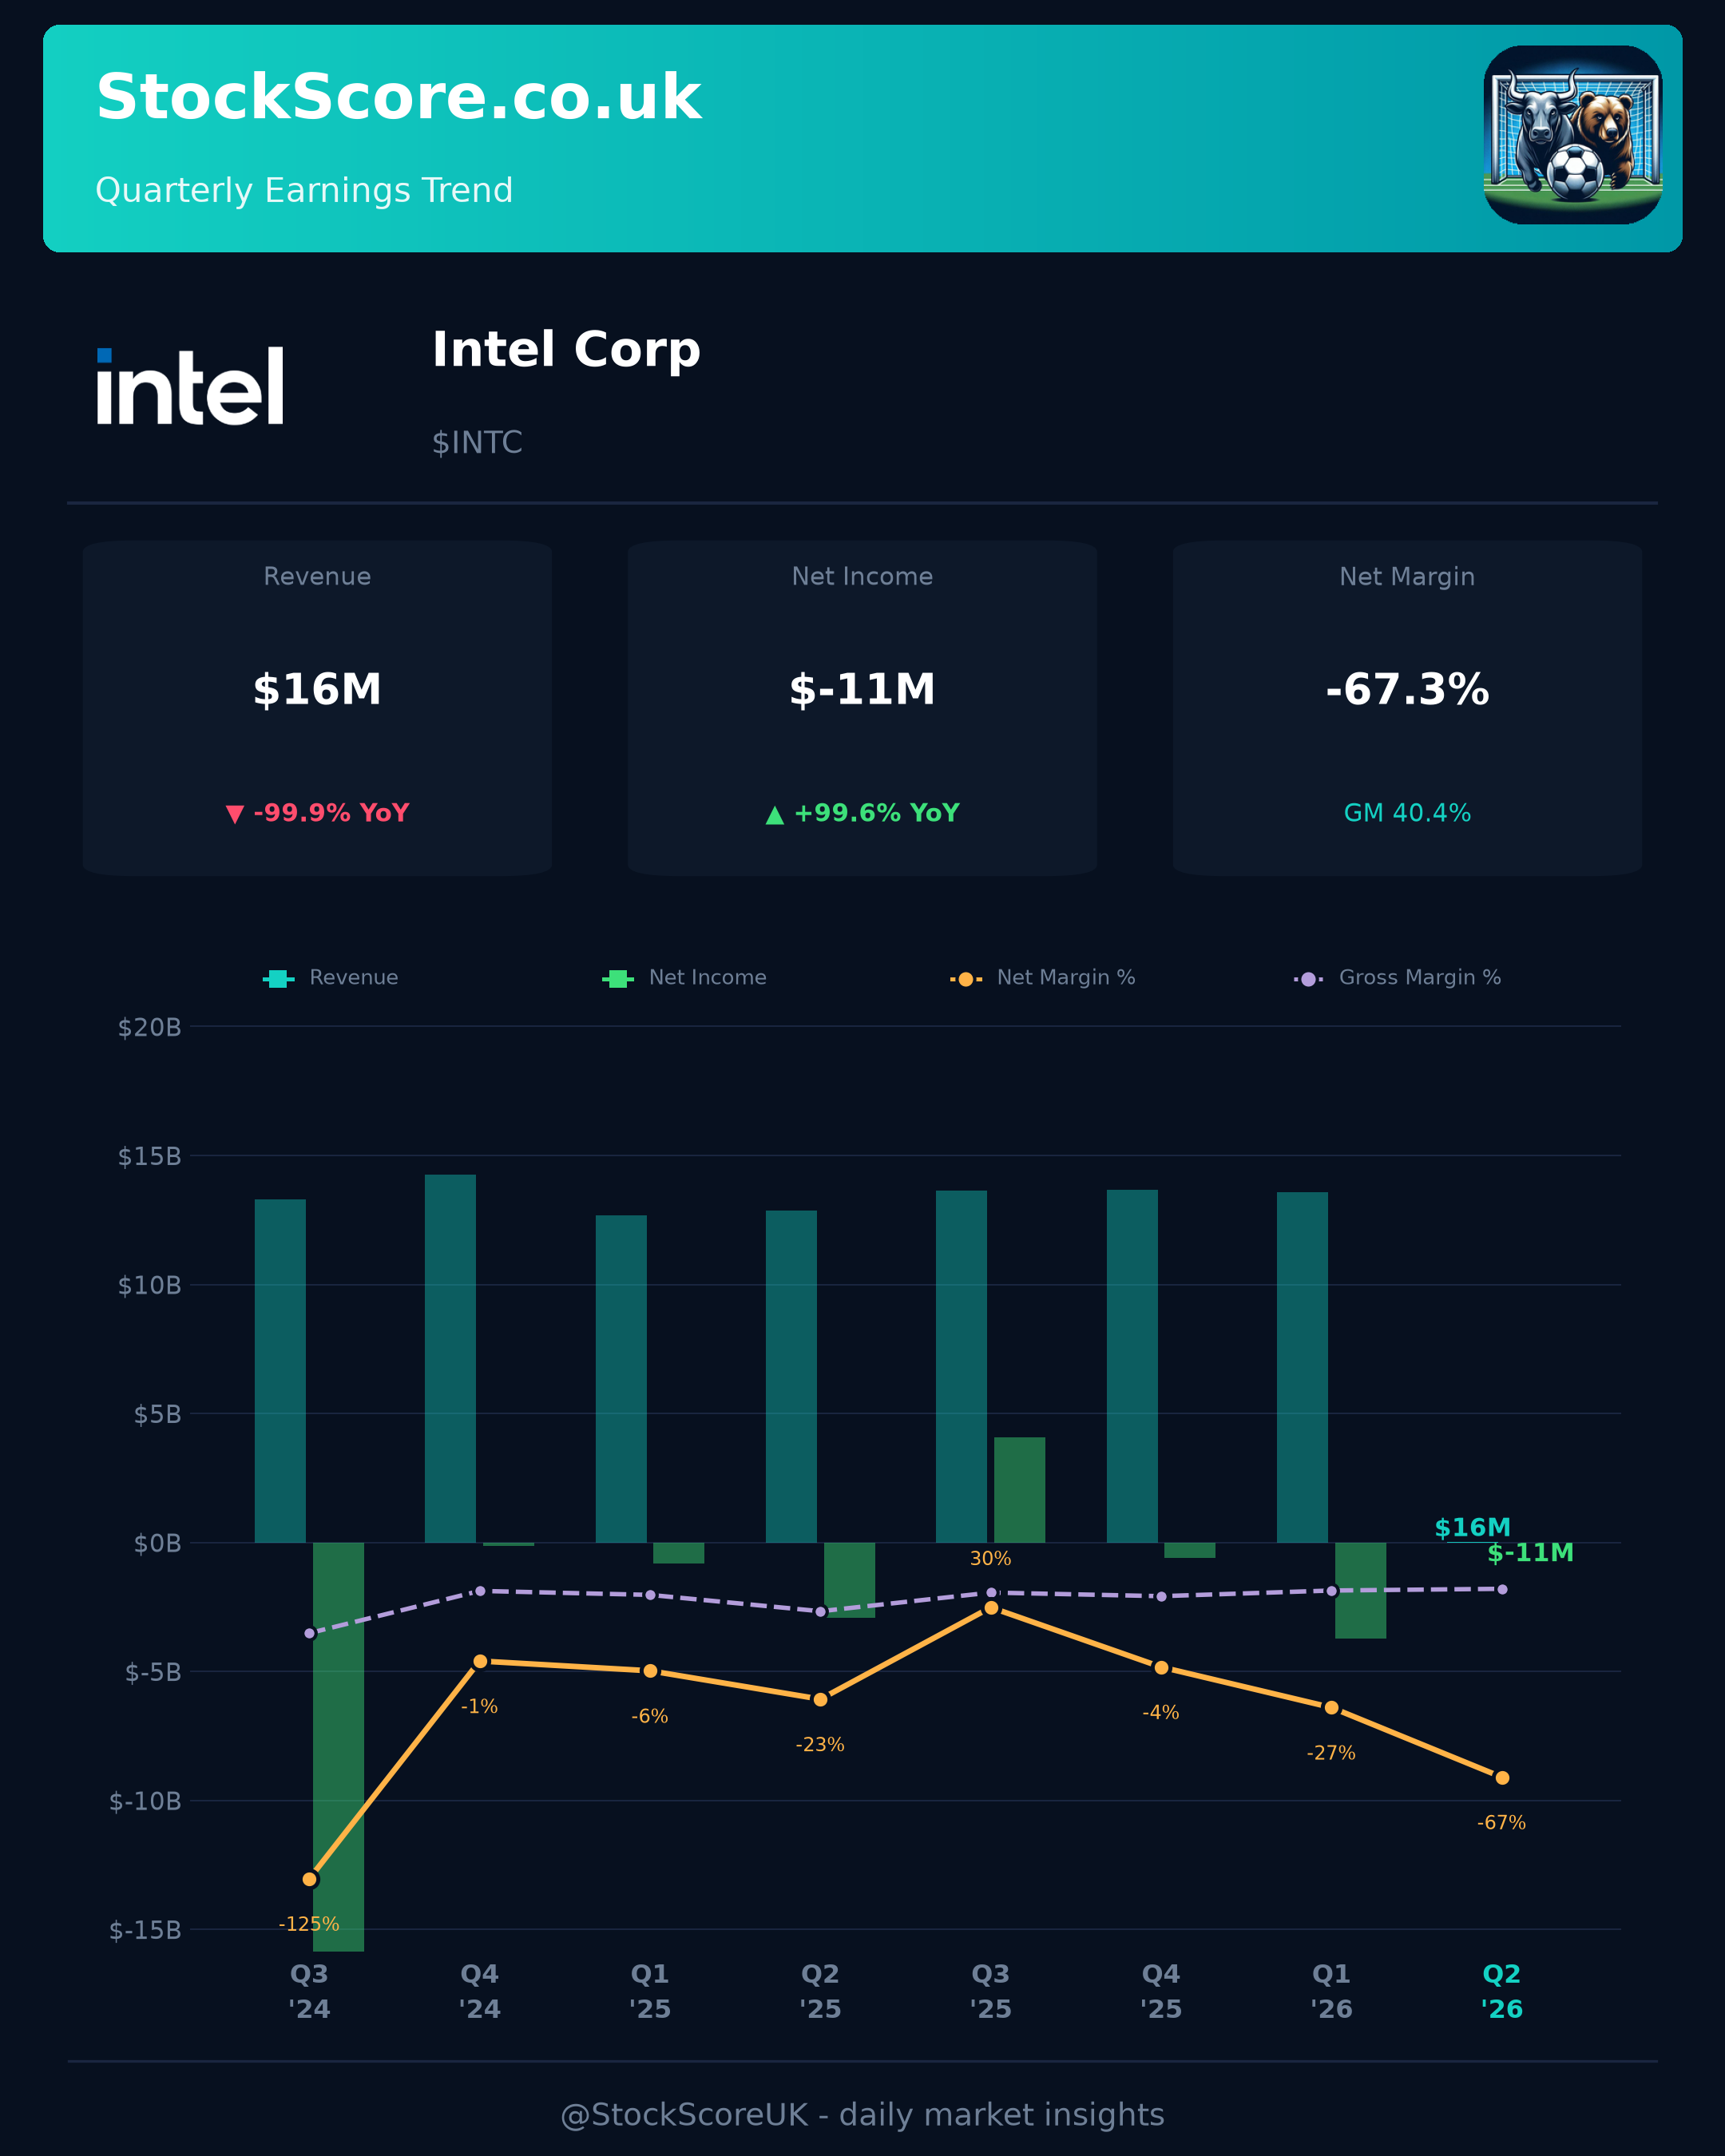
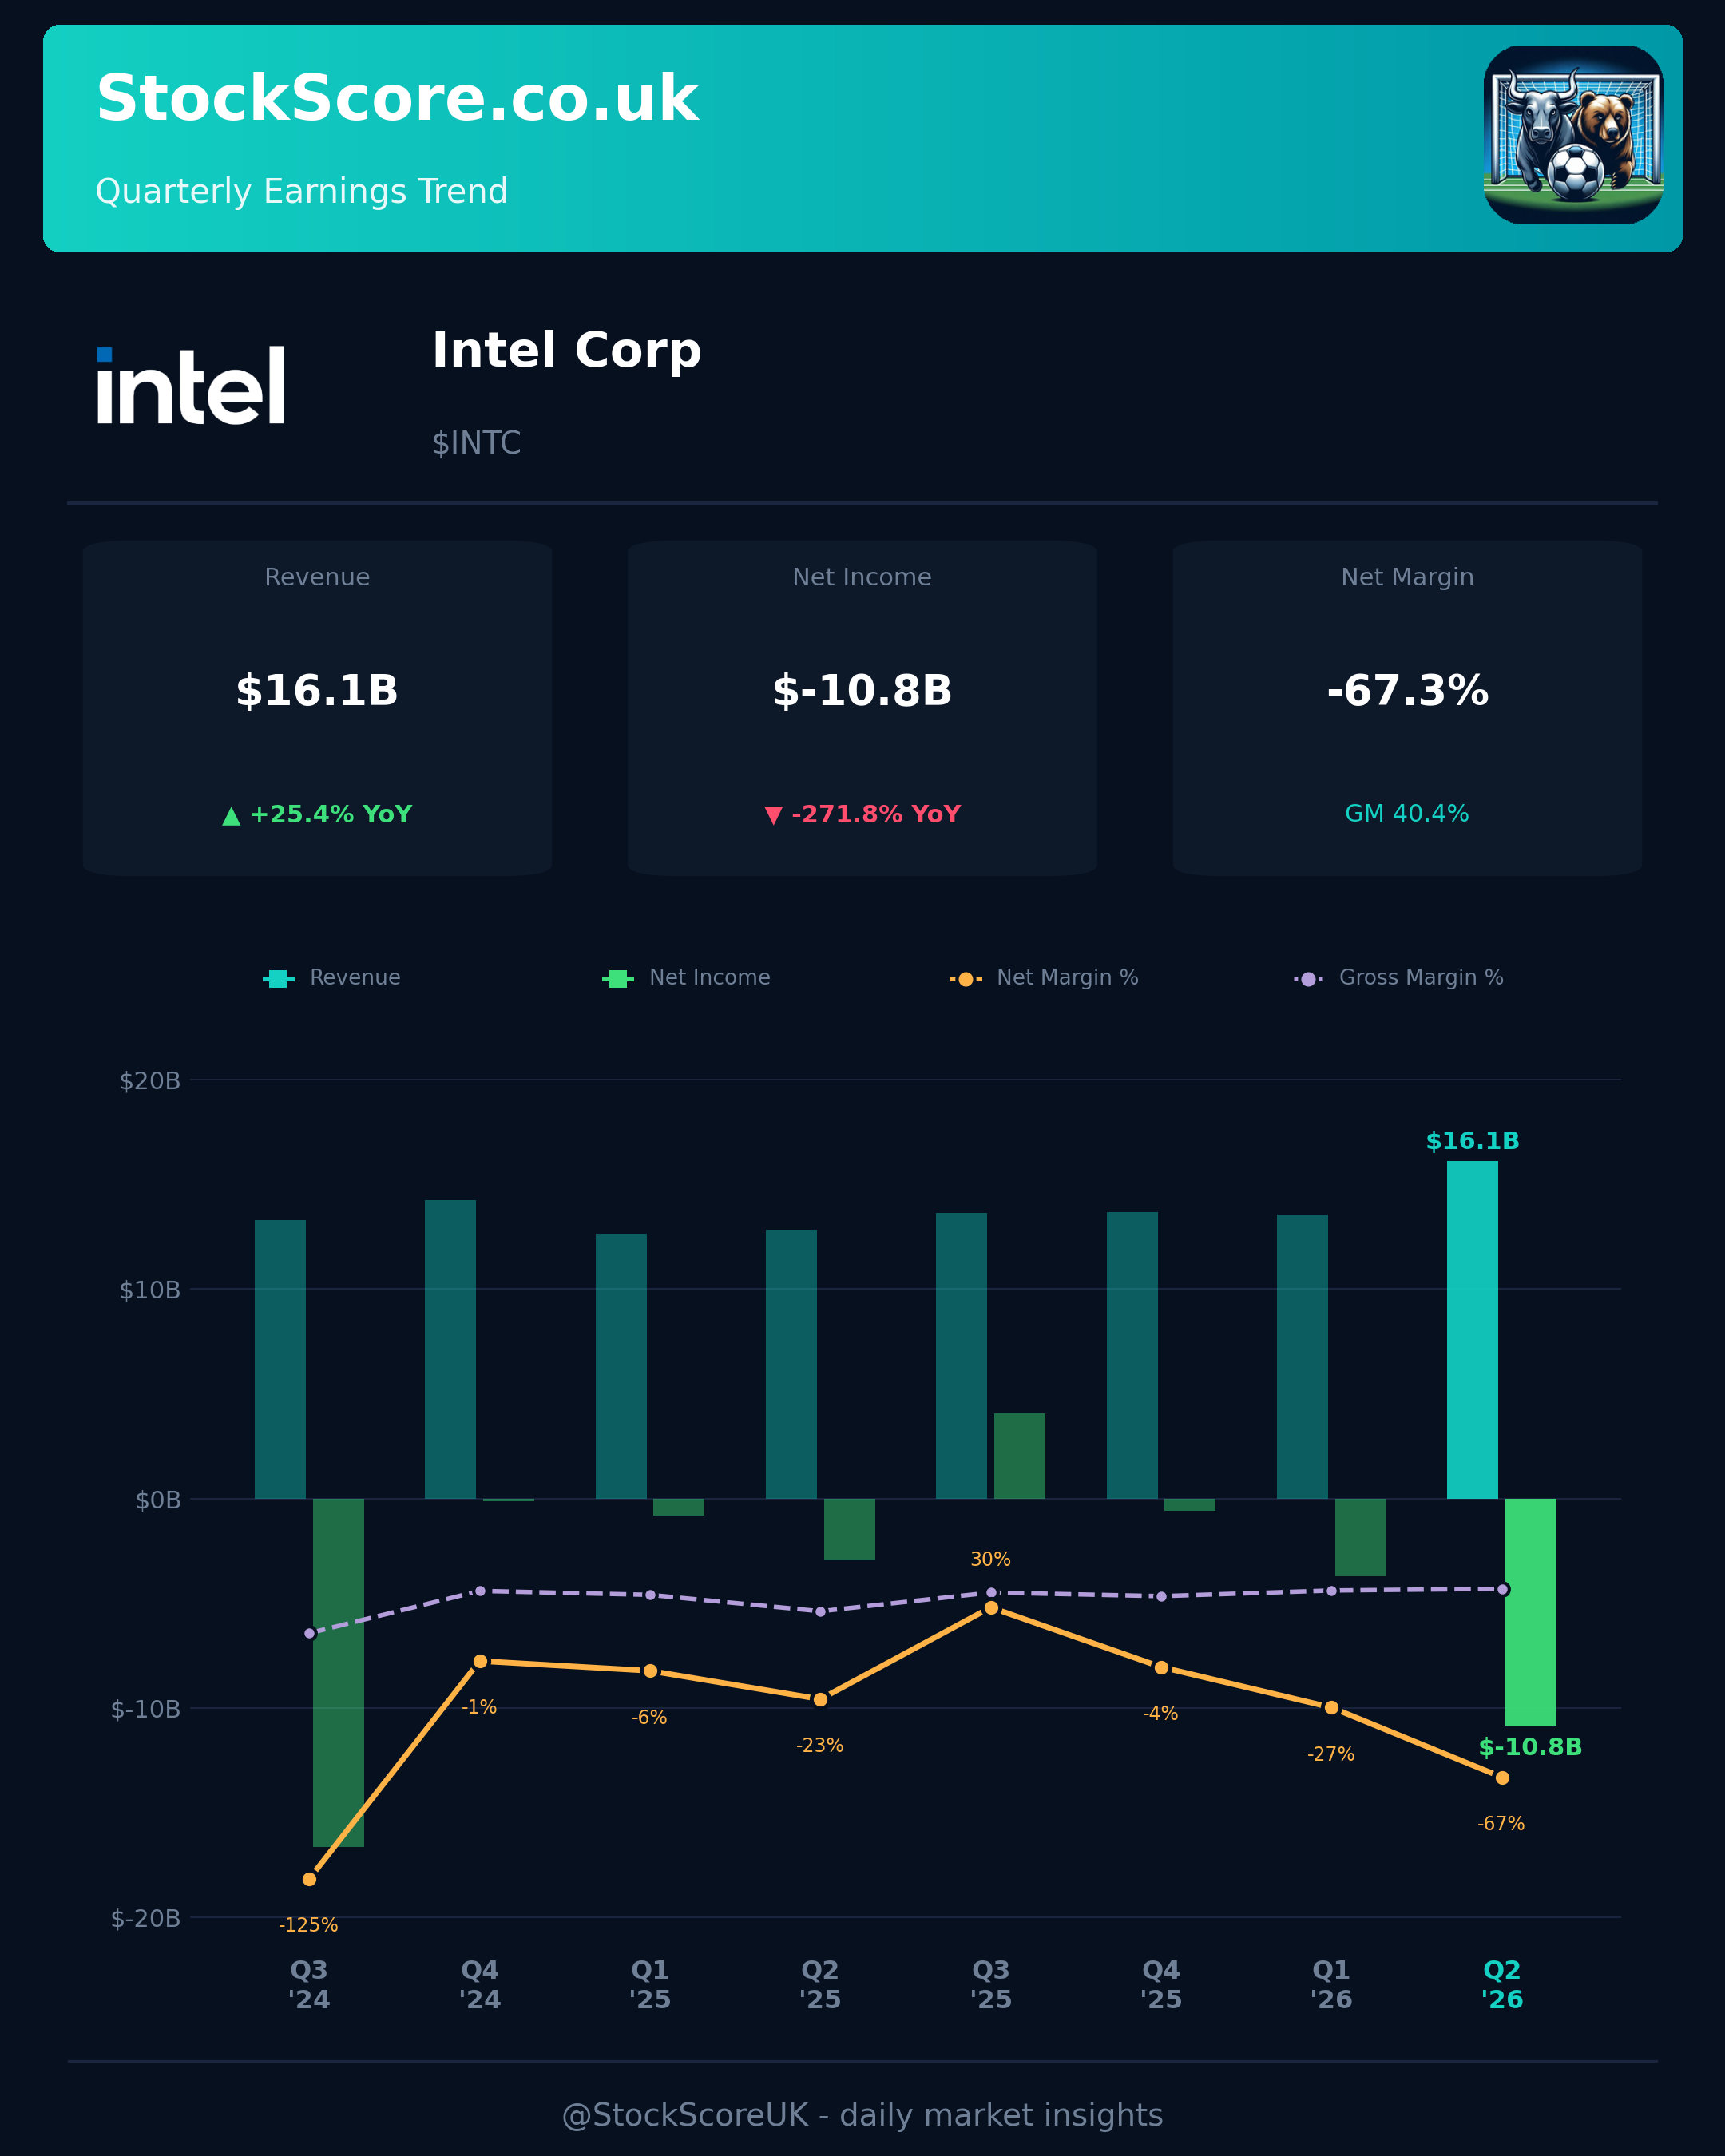
Fix 8-K revenue scale bug and stale-quarter double-posting
_detect_scale() searched the whole 8-K exhibit HTML for "in thousands"/
"in billions", but earnings releases mix units across tables (financials
in millions, guidance in billions, per-share footnotes in thousands), so
it regularly grabbed the wrong phrase and scaled correctly-extracted
revenue 1000x too small. Replaced with _infer_scale(), which picks
whichever scale lands the newly-scraped revenue closest to the ticker's
own last known quarterly revenue, and discards the extraction if no
candidate lands within 3x of that reference. This is what corrupted the
INTC and NFLX charts (revenue collapsed to ~$16M/~$0 instead of
~$16B/~$13B) that were live on Threads/IG/FB — both corrected here and
the live posts have been manually removed.

Also added a staleness guard in generate_chart(): when a recent 8-K is
detected but extraction fails/is rejected and companyfacts hasn't synced
the new quarter yet, the ticker is now skipped for that run instead of
posting the prior (stale) quarter as if it were fresh. This is what
caused LMT and CMCSA to each post twice in one day with different
charts — the morning run posted stale data prompted by the 8-K filing,
and the evening run posted the real new quarter once the 10-Q synced.

diff --git a/scripts/generate_earnings_charts.py b/scripts/generate_earnings_charts.py
@@ -9,6 +9,7 @@ Set FORCE_TICKERS=NVDA,AAPL to skip the EDGAR check and force specific tickers.
 """
 
 import json
+import math
 import os
 import re
 import sys
@@ -84,14 +85,45 @@ def _fetch_text(url: str) -> str:
 
 
 def _detect_scale(html: str) -> float:
+    """Fallback only, used when there's no prior-quarter revenue to check
+    magnitude against (see fetch_8k_extras). Earnings-release exhibits often
+    mix units across tables (financials in millions, guidance in billions, a
+    per-share footnote in thousands), so a document-wide phrase search isn't
+    reliable enough to use as the primary signal — it previously caused
+    revenue to be parsed 1000x too small whenever any *other* table in the
+    same document happened to say "in thousands"."""
     lower = html.lower()
     if 'in thousands' in lower: return 0.001
     if 'in billions'  in lower: return 1000.0
     return 1.0
 
 
-def fetch_8k_extras(cik: str, accn: str) -> dict:
-    """Parse full quarter financials, EPS, guidance and period end date from an earnings 8-K."""
+def _infer_scale(raw_revenue: float, ref_revenue_usd: float | None, html: str) -> float | None:
+    """Pick the scale factor (raw table units -> millions) that lands closest
+    to the ticker's own last known quarterly revenue, instead of trusting a
+    document-wide unit label. Returns None if no candidate scale lands within
+    3x of the reference — i.e. the extraction is unreliable and should be
+    discarded rather than posted."""
+    if not ref_revenue_usd:
+        return _detect_scale(html)
+
+    ref_millions = ref_revenue_usd / 1e6
+    if ref_millions <= 0 or raw_revenue <= 0:
+        return _detect_scale(html)
+
+    candidates = (0.001, 1.0, 1000.0)
+    best_scale = min(candidates, key=lambda c: abs(math.log(raw_revenue * c / ref_millions)))
+    if abs(math.log(raw_revenue * best_scale / ref_millions)) > math.log(3):
+        return None
+    return best_scale
+
+
+def fetch_8k_extras(cik: str, accn: str, ref_revenue: float | None = None) -> dict:
+    """Parse full quarter financials, EPS, guidance and period end date from
+    an earnings 8-K. `ref_revenue` is the ticker's last known quarterly
+    revenue in raw USD (from SEC companyfacts) — used to sanity-check the
+    scale of numbers scraped from the free-text exhibit table, since the
+    exhibit's own unit labels aren't reliable (see _infer_scale)."""
     accn_nodash = accn.replace('-', '')
     cik_int     = str(int(cik))
     try:
@@ -122,10 +154,10 @@ def fetch_8k_extras(cik: str, accn: str) -> dict:
     except Exception:
         return {}
 
-    scale  = _detect_scale(html)
     parser = _TableParser()
     parser.feed(html)
     result = {}
+    raw    = {}  # unscaled parsed values, scaled once revenue's magnitude is known
 
     # ── Label sets ────────────────────────────────────────────────────────────
     eps_labels = {'diluted earnings per share', 'earnings per common share - diluted',
@@ -159,20 +191,29 @@ def fetch_8k_extras(cik: str, accn: str) -> dict:
                 v = first_num(row, allow_small=True)
                 if v is not None and abs(v) < 1000:
                     result['eps'] = v
-            if 'quarter_revenue' not in result and label in rev_labels:
+            if 'quarter_revenue' not in raw and label in rev_labels:
                 v = first_num(row, allow_small=False)
                 if v is not None:
-                    result['quarter_revenue'] = v * scale
-            if 'quarter_gross_profit' not in result and label in gp_labels:
+                    raw['quarter_revenue'] = v
+            if 'quarter_gross_profit' not in raw and label in gp_labels:
                 v = first_num(row, allow_small=False)
                 if v is not None:
-                    rev = result.get('quarter_revenue', float('inf'))
-                    if abs(v * scale) < abs(rev) * 1.5:
-                        result['quarter_gross_profit'] = v * scale
-            if 'quarter_net_income' not in result and label in ni_labels:
+                    raw['quarter_gross_profit'] = v
+            if 'quarter_net_income' not in raw and label in ni_labels:
                 v = first_num(row, allow_small=False)
                 if v is not None:
-                    result['quarter_net_income'] = v * scale
+                    raw['quarter_net_income'] = v
+
+    if 'quarter_revenue' in raw:
+        scale = _infer_scale(raw['quarter_revenue'], ref_revenue, html)
+        if scale is not None:
+            result['quarter_revenue'] = raw['quarter_revenue'] * scale
+            if 'quarter_gross_profit' in raw:
+                gp = raw['quarter_gross_profit'] * scale
+                if abs(gp) < abs(result['quarter_revenue']) * 1.5:
+                    result['quarter_gross_profit'] = gp
+            if 'quarter_net_income' in raw:
+                result['quarter_net_income'] = raw['quarter_net_income'] * scale
 
     # ── Quarter period end date from table header ──────────────────────────────
     text = re.sub(r'<[^>]+>', ' ', html)
@@ -297,10 +338,12 @@ def generate_chart(ticker: str, cik: str, company: str, out_path: Path) -> list 
         br_logo = load_brand_logo()
 
         _, accn = find_latest_earnings_8k(cik)
-        extras  = fetch_8k_extras(cik, accn) if accn else {}
+        ref_revenue = quarters[-1].get('revenue')
+        extras  = fetch_8k_extras(cik, accn, ref_revenue=ref_revenue) if accn else {}
 
         # Stitch the 8-K quarter into the trend if it isn't in companyfacts yet
         # (common in the 5–40 day window between earnings release and 10-Q filing)
+        stitched = False
         qed = extras.get('quarter_end_date')
         if qed and extras.get('quarter_revenue'):
             existing_keys = {q['key'] for q in quarters}
@@ -316,9 +359,24 @@ def generate_chart(ticker: str, cik: str, company: str, out_path: Path) -> list 
                     'net_income':   _to_usd(extras.get('quarter_net_income')),
                 }
                 quarters = (quarters + [new_q])[-8:]  # keep latest 8
+                stitched = True
                 rev_b = extras['quarter_revenue'] / 1e3
                 print(f"  8-K quarter stitched: {quarter_label(qed).replace(chr(10),' ')} "
                       f"(rev ${rev_b:.1f}B)")
+
+        # check_recent_filing() only means a filing landed recently — it doesn't
+        # mean that filing's numbers are in `quarters` yet. If the 8-K stitch
+        # above didn't happen (extraction failed/was rejected as implausible)
+        # and companyfacts hasn't synced the new quarter either, quarters[-1]
+        # is still last quarter's data. Posting that now, prompted by today's
+        # filing, reads as a fresh chart when it's actually stale — and a few
+        # hours later, once data syncs, the real new quarter posts too,
+        # producing two different charts for the same company in one day.
+        days_stale = (datetime.now(timezone.utc).replace(tzinfo=None) - quarters[-1]['end']).days
+        if not stitched and days_stale > 100:
+            print(f"  recent filing detected but latest usable quarter is still "
+                  f"{days_stale}d old — data hasn't synced yet, skipping until next run")
+            return None
 
         # Derive guidance label from the latest quarter end (calendar-consistent)
         if extras.get('guidance_rev'):